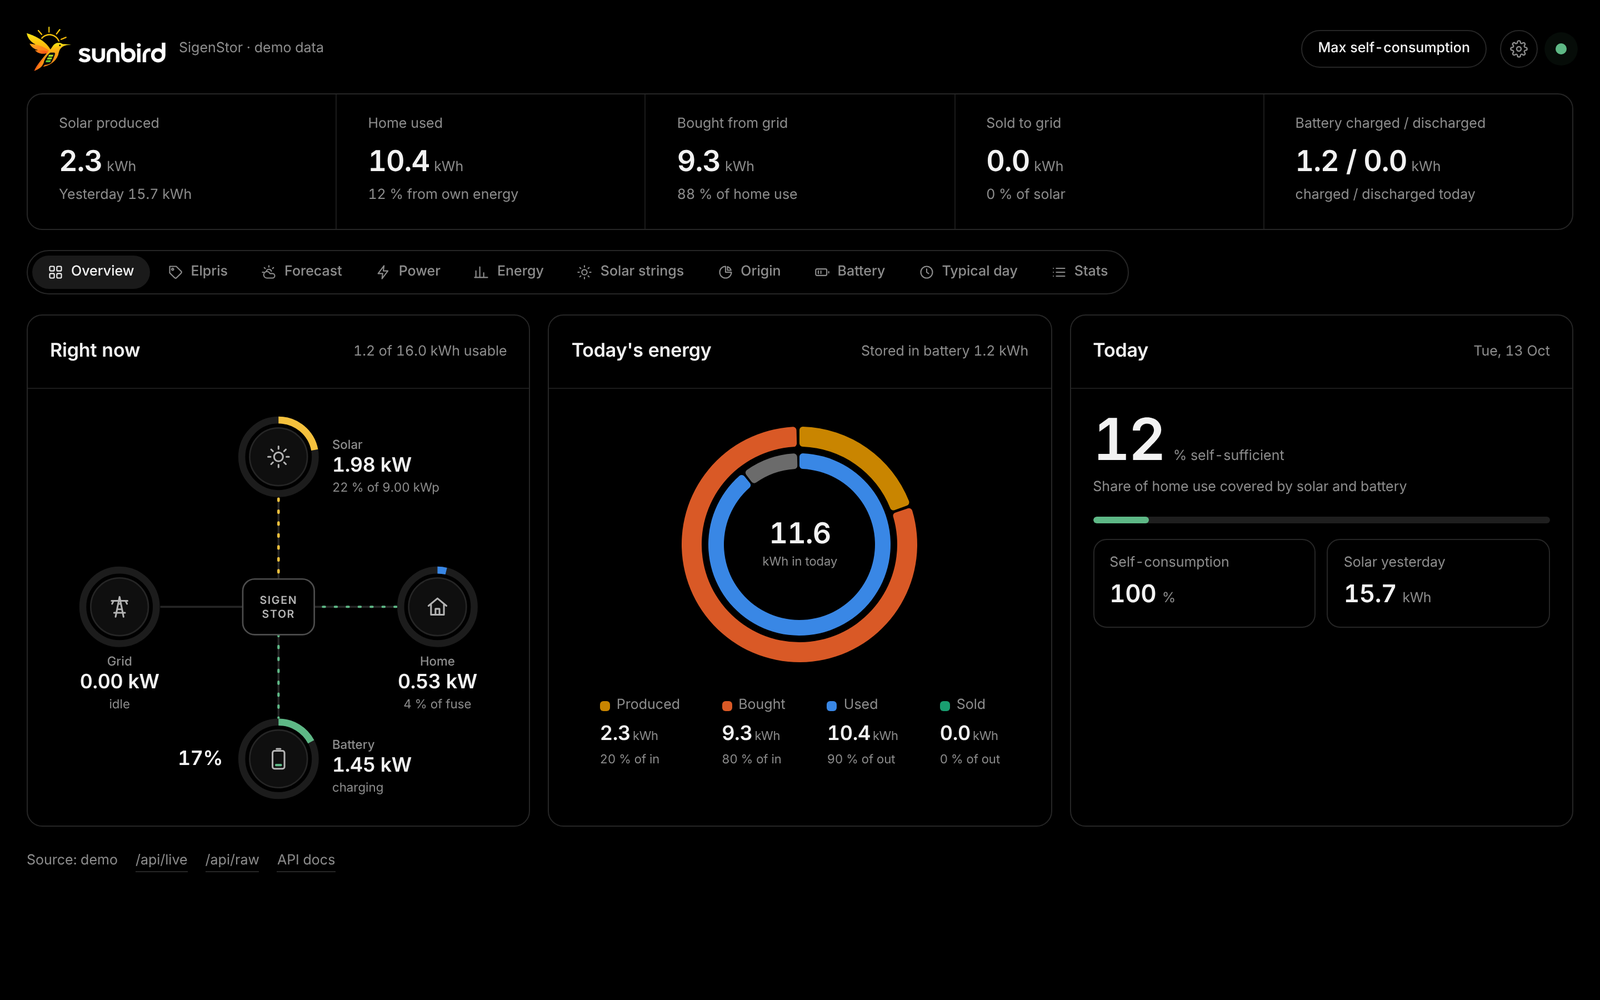
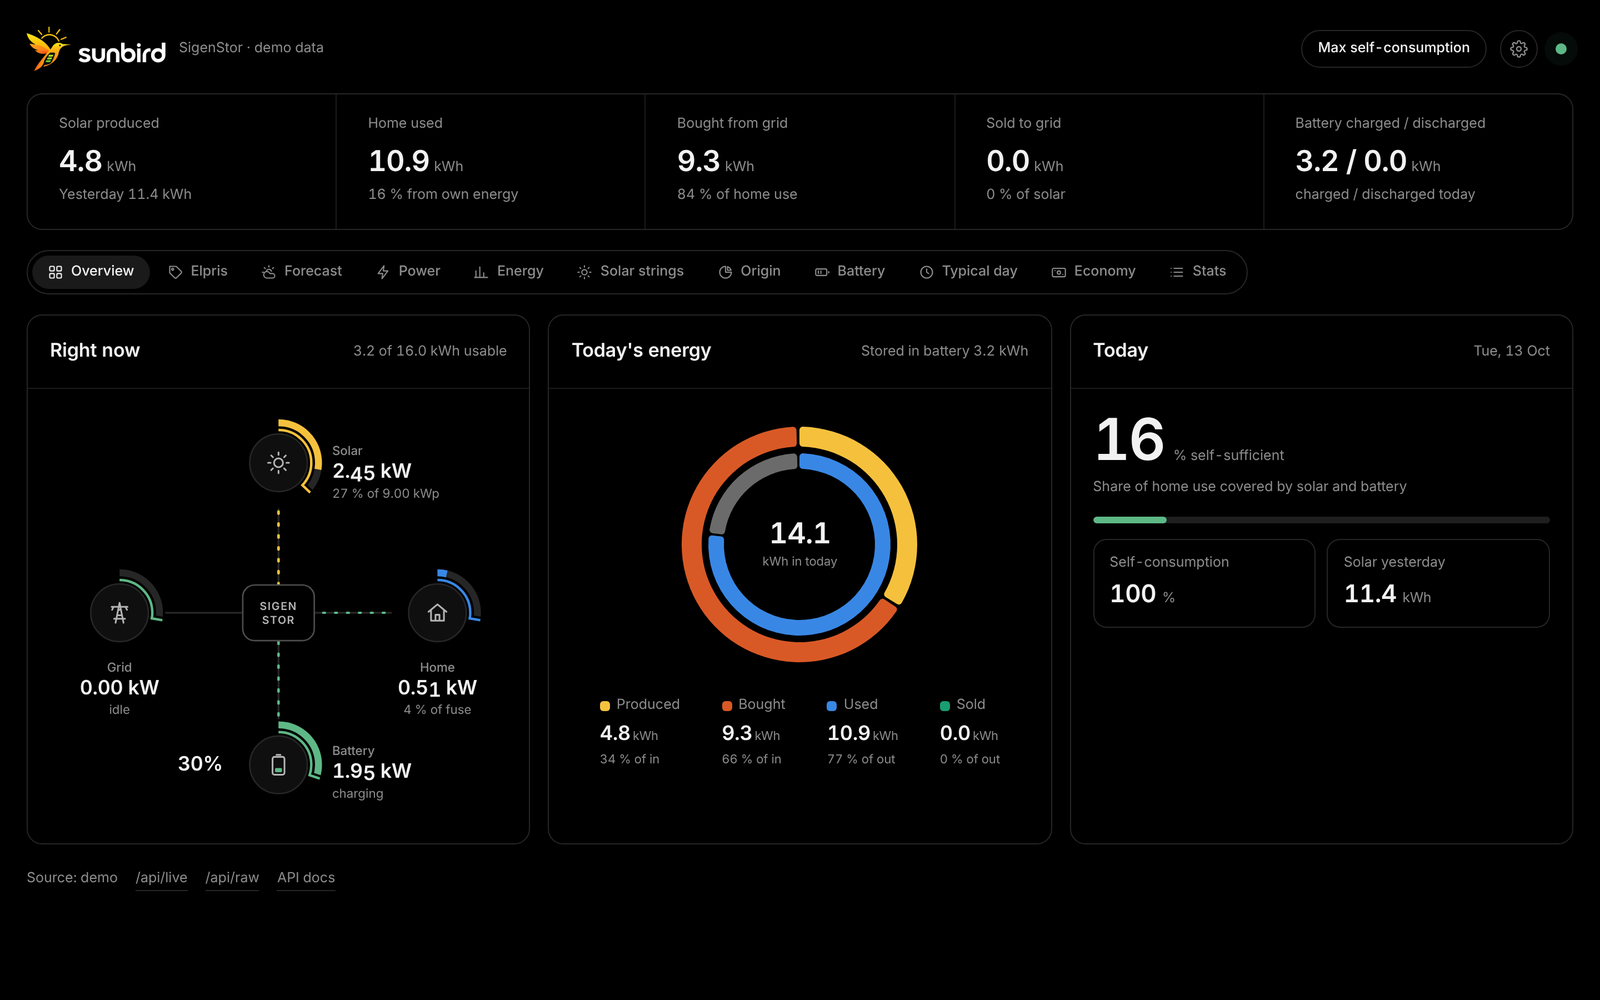
Update screenshots and README

diff --git a/README.md b/README.md
@@ -9,6 +9,7 @@ Modbus TCP on your home network. It needs no cloud and no account, and it refres
 
 - **Right now:** live power flow between solar, grid, home and battery. The numbers roll when they change.
   Rings show solar output against your panels' peak, grid and home use against your main fuse, and the battery level.
+  A thin peak ring and a peak line mark today's highest value for each, and the SigenStor glows when solar is above a level you choose.
 - **Today:** solar produced, home used, bought and sold, battery in and out, and self-sufficiency, plus a donut of today's energy.
 - **Elpris:** Nord Pool spot prices for SE1–SE4 from [elprisetjustnu.se](https://www.elprisetjustnu.se), free.
   - Shown as 15-minute or hourly bars, coloured green, orange or red by price.
@@ -24,8 +25,12 @@ Modbus TCP on your home network. It needs no cloud and no account, and it refres
 - **Origin:** where the home's energy came from (solar, battery or grid), and how much was bought vs sold.
 - **Battery:** battery level, and temperature for the hottest pack, the average cell and the coolest pack.
 - **Typical day:** average solar and home use for each hour of the day.
+- **Economy:** what your electricity cost, using hourly Nord Pool prices and your own fees.
+  - Net, combined (sold up, bought down) or side-by-side bars per day, week or month.
+  - How much solar and battery saved compared with buying everything from the grid.
 - **Stats:** battery life (full cycles used out of the rated cycles), health, cell data and system info.
-- English, Swedish, German, French and Spanish, with smooth or straight chart lines. It works on phones too.
+- English, Swedish, German, French and Spanish, with smooth or straight chart lines and optional brighter card borders. It works on phones too.
+- Each thing has one colour in every chart: solar yellow, home blue, battery green, grid orange.
 
 Sunbird only **reads** from the SigenStor. It never writes to it.
 
@@ -38,7 +43,8 @@ All screenshots use the built-in demo data.
 | ![Electricity price](docs/screenshots/price.png) **Elpris:** spot price, buy/sell price and battery level | ![Forecast](docs/screenshots/forecast.png) **Forecast:** expected vs actual solar |
 | ![Energy](docs/screenshots/energy.png) **Energy** per day, week or month | ![Power](docs/screenshots/power.png) **Power** over time |
 | ![Solar strings](docs/screenshots/strings.png) **Solar strings** compared | ![Origin](docs/screenshots/origin.png) **Origin:** where home energy came from |
-| ![Battery](docs/screenshots/battery.png) **Battery** level and temperature | ![Stats](docs/screenshots/stats.png) **Stats:** battery life and system details |
+| ![Battery](docs/screenshots/battery.png) **Battery** level and temperature | ![Typical day](docs/screenshots/typical.png) **Typical day:** solar and home use by hour |
+| ![Economy](docs/screenshots/economy.png) **Economy:** costs, income and savings | ![Stats](docs/screenshots/stats.png) **Stats:** battery life and system details |
 | ![Settings](docs/screenshots/settings.png) **Settings:** set up your plant from the browser | <img src="docs/screenshots/mobile.png" alt="Mobile" width="260"> **On a phone** |
 
 ## Requirements
